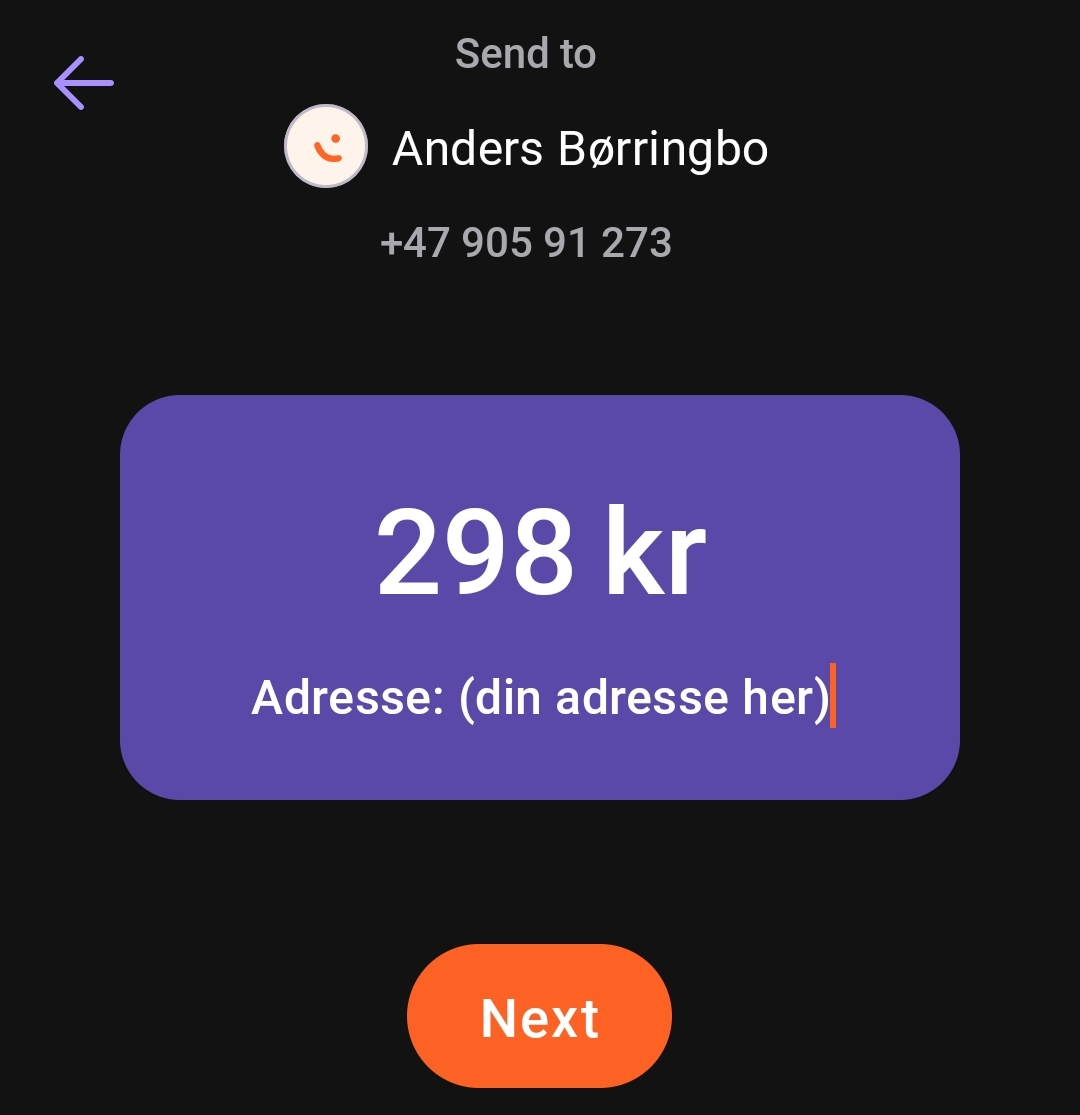
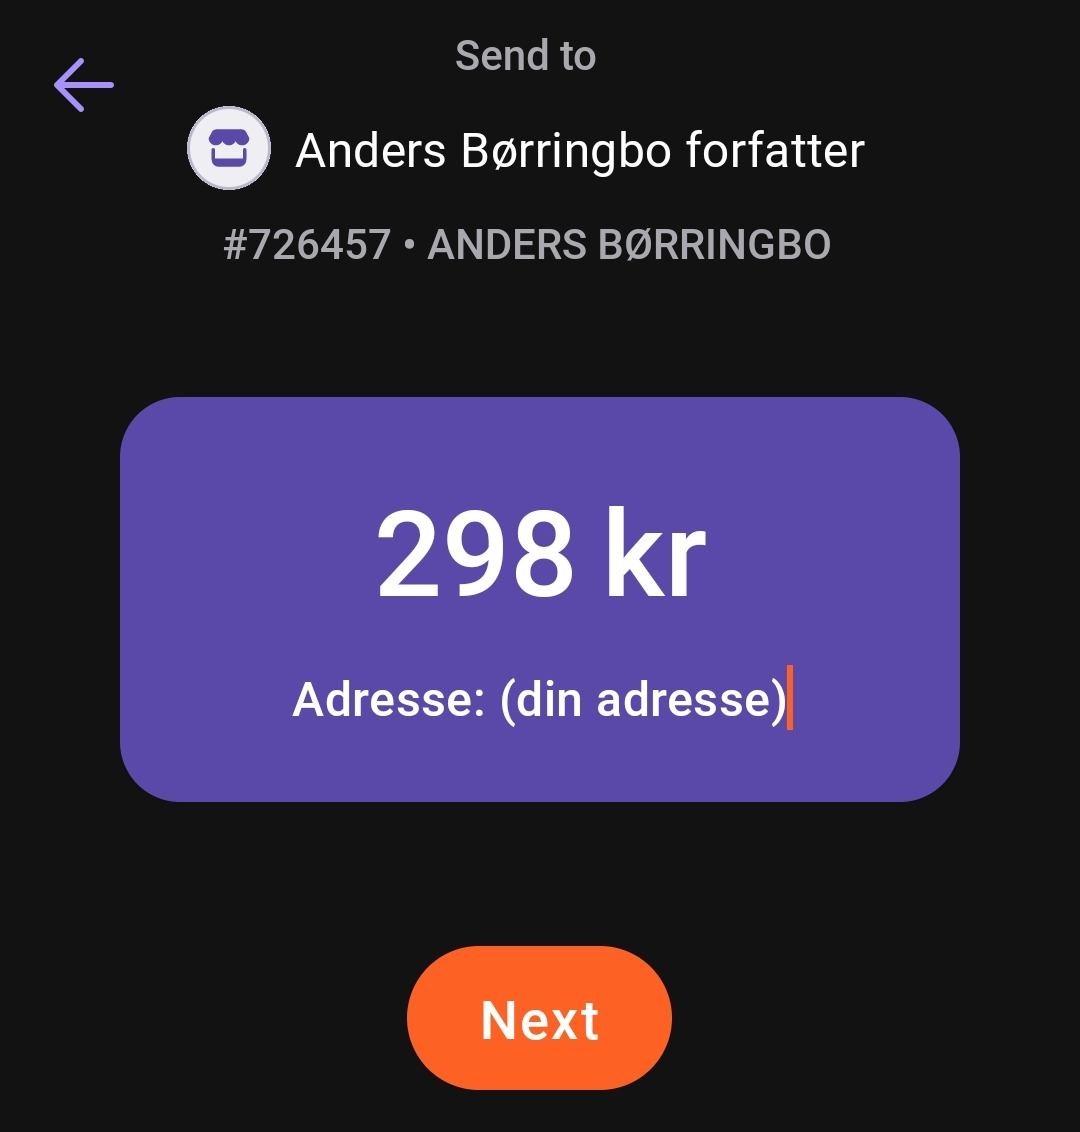
Bilder webp ++

diff --git a/index.html b/index.html
@@ -18,9 +18,9 @@
                 <p class="bold">Anders Børringbo</p>
             </div>
         </header>
-        <article class="text-align-left">
+        <article>
             <figure>
-                <img src="images/Teigen_helikopter.jpg" alt="Teigen på fotballbanen">
+                <img src="images/Teigen_helikopter.webp" alt="Teigen på fotballbanen">
                 <figcaption>Foto: Eivind Eriksen (TB)</figcaption>
             </figure>
             <p>Boka «Morn, morn Tønsberg» er ute. Her får du historier om Jahn Teigen, Odd Børretzen, originalene
@@ -30,16 +30,35 @@
             <p> «Morn, morn Tønsberg» er perfekt for den som har et hjerte for byen under fjellet, eller rett og slett
                 vil lære mer om den. </p>
 
-            <img src="images/forside.jpg">
+            <img src="images/forside.webp" alt="Forside">
 
 
         </article>
         <article>
             <h2>Hvordan bestille boka</h2>
-            <img class="vipps" src="images/vipps_eksempel.jpg" alt="Vipps-eksempel">
-            <p>Vipps Anders kr 298 på tlf. <a href="tel:+4790591273">905 91 273</a>. Skriv adressen din i meldingen, så
+            <img class="vipps" src="images/vipps_eksempel.webp" alt="Vipps-eksempel">
+            <p>Send Anders kr 298 på vipps-nummer <a href="https://qr.vipps.no/28/2/05/031/pA2VftF4p">726457</a>. Skriv
+                adressen din i meldingen, så
                 sender vi boken i posten.
             </p>
+        </article>
+
+        <article>
+            <h2>Mer om boka!</h2>
+            <p>Inger lise Børringbo, oppvokst i Presterødåsen, var journalist i Tønsbergs Blad i flere tiår, fra midten
+                av 60-tallet til hun sluttet i 2007. Hun prøvde å skildre bredden i byen, fra ordføreren til han som sov
+                under en benk i Stoltenbergparken, til julebordet for de som var litt annerledes i Øvre Langgate. Mange
+                av disse intervjuene er med.</p>
+            <p>Inger Lise var også formann i bygningsrådet og med i bystyret en periode. Her ble hennes viktigste kamp å
+                bevare byen og hindre riving. Historien om hvordan hun var med å redde sjøbodene og bryggene fra riving,
+                i dag Tønsbergs indrefilet, er sentral i boka.</p>
+
+            <p>Anders Børringbo vokste opp i Gråbrødregaten mildt i byen. Rett i nærheten hang han utenfor den gamle
+                brannstasjonen på Torvet og ventet på utrykning. På 80-tallet fulgte han fotballeventyret med Eik på
+                øverste nivå og så Jahn Teigen lande med helikopter på Gressbanen. Disse og flere andre historier er
+                med.</p>
+            <p>Boka har dessuten en annen sentral, rød tråd. Inger Lise skrev mye om kultur, på dette feltet har det
+                skjedd en enorm utvikling i byen de siste tiårene. Teater, kunst, bevaring. Les og kos deg!</p>
         </article>
 
         <footer>

diff --git a/static/style.css b/static/style.css
@@ -14,15 +14,14 @@ body {
 
 #container {
     margin: auto;
-    max-width: 12cm;
-    text-align: center;
+    max-width: 16cm;
     padding: 1%;
 }
 
 header {
+    text-align: center;
     margin-left: auto;
     margin-right: auto;
-    max-width: 12cm;
 
 }
 
@@ -48,8 +47,9 @@ img {
 }
 
 img.vipps {
-    box-shadow: 5px 5px rgb(20, 49, 106);
+    box-shadow: 1vw 1vw rgb(20, 49, 106);
     border-radius: 5%;
+    max-width: 10cm;
 }
 
 a {
@@ -79,10 +79,6 @@ header > h1 {
 
 .justify-space-between {
     justify-content: space-between;
-}
-
-.text-align-left {
-    text-align: left;
 }
 
 .bold {
